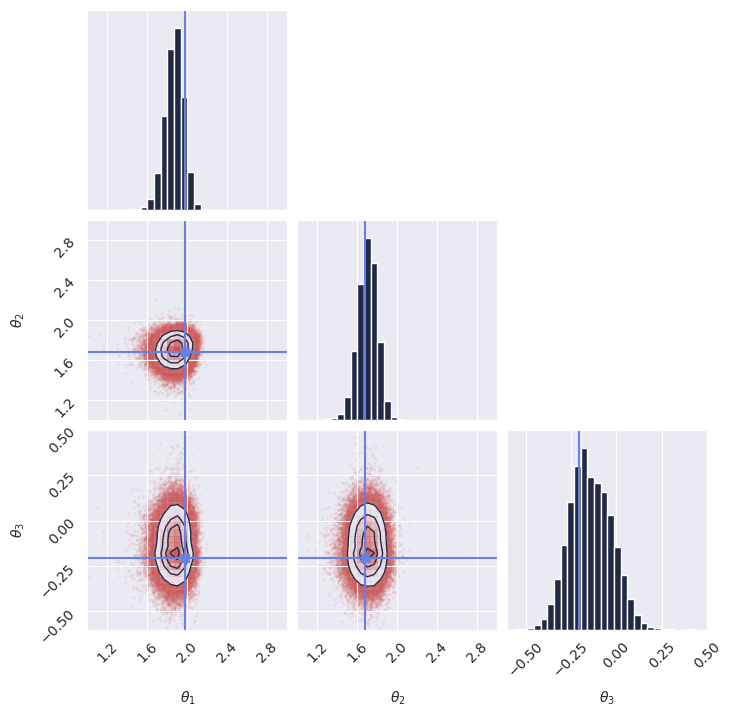
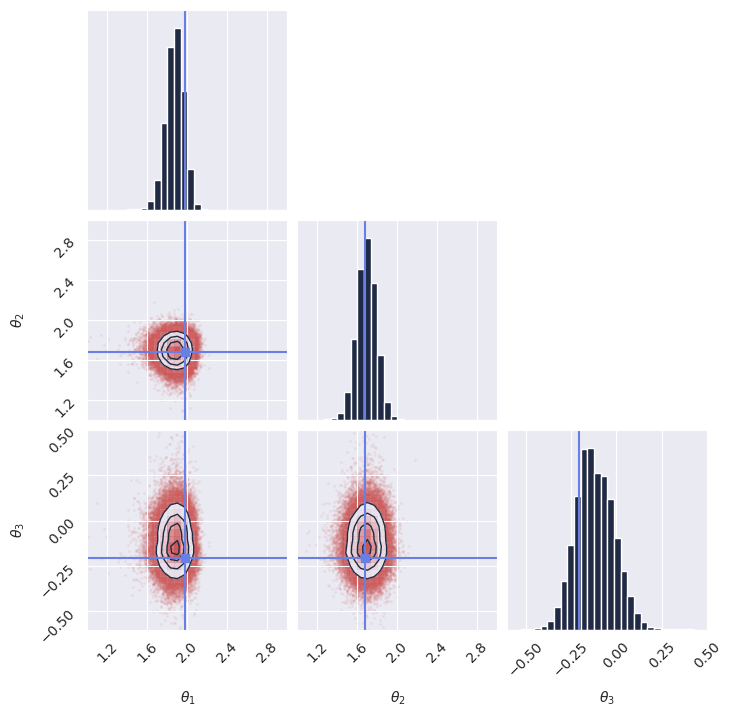
included  code and plots in the recipes documentation

diff --git a/src/gensbi/recipes/flux1joint.py b/src/gensbi/recipes/flux1joint.py
@@ -1,56 +1,5 @@
 """
-Pipeline for training and using a Flux1 model for simulation-based inference.
-
-Examples:
-    .. code-block:: python
-
-        import grain
-        import numpy as np
-        import jax
-        from jax import numpy as jnp
-        from gensbi.recipes import SimformerPipeline
-
-        # Define your training and validation datasets.
-        train_data = jax.random.rand((1024, 4)) # your training dataset
-        val_data = jax.random.rand((128, 4)) # your validation dataset
-
-        batch_size = 32
-
-        train_dataset_grain = (
-            grain.MapDataset.source(np.array(train_data)[...,None])
-            .shuffle(42)
-            .repeat()
-            .to_iter_dataset()
-            .batch(batch_size)
-            # .mp_prefetch() # Uncomment if you want to use multiprocessing prefetching
-        )
-
-        val_dataset_grain = (
-            grain.MapDataset.source(np.array(val_data)[...,None])
-            .shuffle(42)
-            .repeat()
-            .to_iter_dataset()
-            .batch(batch_size)
-            # .mp_prefetch() # Uncomment if you want to use multiprocessing prefetching
-        )
-
-        # Define the model
-        dim_obs = 2  # Dimension of the parameter space
-        dim_cond = 2      # Dimension of the observation space
-        pipeline = SimformerPipeline(train_dataset, val_dataset, dim_obs, dim_cond)
-
-        # Train the model
-        rngs = jax.random.PRNGKey(0)
-        pipeline.train(rngs)
-
-        # Sample from the posterior
-        x_o = jnp.array([0.5, -0.2])  # Example
-        samples = pipeline.sample(rngs, x_o, nsamples=10000, step_size=0.01)
-
-    .. note::
-
-        If you plan on using multiprocessing prefetching, ensure that your script is wrapped in a `if __name__ == "__main__":` guard. See https://docs.python.org/3/library/multiprocessing.html
-
+Pipeline for training and using a Flux1Joint model for simulation-based inference.
 """
 
 import jax
@@ -201,6 +150,22 @@ class Flux1JointFlowPipeline(JointFlowPipeline):
             Configuration for training. If None, default configuration is used.
         condition_mask_kind : str, optional
             Kind of condition mask to use. One of ["structured", "posterior"].
+
+        Examples
+        --------
+        Minimal example on how to instantiate and use the Flux1JointFlowPipeline:
+
+        .. literalinclude:: /examples/flux1joint_flow_pipeline.py
+            :language: python
+            :linenos:
+
+        .. image:: /examples/flux1joint_flow_pipeline_marginals.png
+            :width: 600
+
+        .. note::
+            If you plan on using multiprocessing prefetching, ensure that your script is wrapped
+            in a ``if __name__ == "__main__":`` guard.
+            See https://docs.python.org/3/library/multiprocessing.html
 
         """
         self.dim_joint = dim_obs + dim_cond
@@ -359,6 +324,22 @@ class Flux1JointDiffusionPipeline(JointDiffusionPipeline):
             Configuration for training. If None, default configuration is used.
         condition_mask_kind : str, optional
             Kind of condition mask to use. One of ["structured", "posterior"]. Default is "structured".
+
+        Examples
+        --------
+        Minimal example on how to instantiate and use the Flux1JointDiffusionPipeline:
+
+        .. literalinclude:: /examples/flux1joint_diffusion_pipeline.py
+            :language: python
+            :linenos:
+
+        .. image:: /examples/flux1joint_diffusion_pipeline_marginals.png
+            :width: 600
+
+        .. note::
+            If you plan on using multiprocessing prefetching, ensure that your script is wrapped
+            in a ``if __name__ == "__main__":`` guard.
+            See https://docs.python.org/3/library/multiprocessing.html
 
         """
         self.dim_joint = dim_obs + dim_cond

diff --git a/src/gensbi/recipes/simformer.py b/src/gensbi/recipes/simformer.py
@@ -1,56 +1,5 @@
 """
-Pipeline for training and using a Flux1 model for simulation-based inference.
-
-Examples:
-    .. code-block:: python
-
-        import grain
-        import numpy as np
-        import jax
-        from jax import numpy as jnp
-        from gensbi.recipes import SimformerPipeline
-
-        # Define your training and validation datasets.
-        train_data = jax.random.rand((1024, 4)) # your training dataset
-        val_data = jax.random.rand((128, 4)) # your validation dataset
-
-        batch_size = 32
-
-        train_dataset_grain = (
-            grain.MapDataset.source(np.array(train_data)[...,None])
-            .shuffle(42)
-            .repeat()
-            .to_iter_dataset()
-            .batch(batch_size)
-            # .mp_prefetch() # Uncomment if you want to use multiprocessing prefetching
-        )
-
-        val_dataset_grain = (
-            grain.MapDataset.source(np.array(val_data)[...,None])
-            .shuffle(42)
-            .repeat()
-            .to_iter_dataset()
-            .batch(batch_size)
-            # .mp_prefetch() # Uncomment if you want to use multiprocessing prefetching
-        )
-
-        # Define the model
-        dim_obs = 2  # Dimension of the parameter space
-        dim_cond = 2      # Dimension of the observation space
-        pipeline = SimformerPipeline(train_dataset_grain, val_dataset_grain, dim_obs, dim_cond)
-
-        # Train the model
-        rngs = jax.random.PRNGKey(0)
-        pipeline.train(rngs)
-
-        # Sample from the posterior
-        x_o = jnp.array([0.5, -0.2])  # Example
-        samples = pipeline.sample(rngs, x_o, nsamples=10000, step_size=0.01)
-
-    .. note::
-
-        If you plan on using multiprocessing prefetching, ensure that your script is wrapped in a `if __name__ == "__main__":` guard. See https://docs.python.org/3/library/multiprocessing.html
-
+Pipeline for training and using a Simformer model for simulation-based inference.
 """
 
 import jax
@@ -197,6 +146,22 @@ class SimformerFlowPipeline(JointFlowPipeline):
             Edge mask for the Simformer model. If None, no mask is applied.
         condition_mask_kind : str, optional
             Kind of condition mask to use. One of ["structured", "posterior"].
+
+        Examples
+        --------
+        Minimal example on how to instantiate and use the SimformerFlowPipeline:
+
+        .. literalinclude:: /examples/simformer_flow_pipeline.py
+            :language: python
+            :linenos:
+
+        .. image:: /examples/simformer_flow_pipeline_marginals.png
+            :width: 600
+
+        .. note::
+            If you plan on using multiprocessing prefetching, ensure that your script is wrapped
+            in a ``if __name__ == "__main__":`` guard.
+            See https://docs.python.org/3/library/multiprocessing.html
 
         """
         self.dim_joint = dim_obs + dim_cond
@@ -385,6 +350,22 @@ class SimformerDiffusionPipeline(JointDiffusionPipeline):
             Edge mask for the Simformer model. If None, no mask is applied.
         condition_mask_kind : str, optional
             Kind of condition mask to use. One of ["structured", "posterior"].
+
+        Examples
+        --------
+        Minimal example on how to instantiate and use the SimformerDiffusionPipeline:
+
+        .. literalinclude:: /examples/simformer_diffusion_pipeline.py
+            :language: python
+            :linenos:
+
+        .. image:: /examples/simformer_diffusion_pipeline_marginals.png
+            :width: 600
+
+        .. note::
+            If you plan on using multiprocessing prefetching, ensure that your script is wrapped
+            in a ``if __name__ == "__main__":`` guard.
+            See https://docs.python.org/3/library/multiprocessing.html
 
         """
 

diff --git a/src/gensbi/recipes/flux1.py b/src/gensbi/recipes/flux1.py
@@ -1,56 +1,5 @@
 """
 Pipeline for training and using a Flux1 model for simulation-based inference.
-
-Examples:
-    .. code-block:: python
-
-        import grain
-        import numpy as np
-        import jax
-        from jax import numpy as jnp
-        from gensbi.recipes import Flux1Pipeline
-
-        # Define your training and validation datasets.
-        train_data = jax.random.rand((1024, 4)) # your training dataset
-        val_data = jax.random.rand((128, 4)) # your validation dataset
-
-        batch_size = 32
-
-        train_dataset_grain = (
-            grain.MapDataset.source(np.array(train_data)[...,None])
-            .shuffle(42)
-            .repeat()
-            .to_iter_dataset()
-            .batch(batch_size)
-            # .mp_prefetch() # Uncomment if you want to use multiprocessing prefetching
-        )
-
-        val_dataset_grain = (
-            grain.MapDataset.source(np.array(val_data)[...,None])
-            .shuffle(42)
-            .repeat()
-            .to_iter_dataset()
-            .batch(batch_size)
-            # .mp_prefetch() # Uncomment if you want to use multiprocessing prefetching
-        )
-
-        # Define the model
-        dim_obs = 2  # Dimension of the parameter space
-        dim_cond = 2      # Dimension of the observation space
-        pipeline = Flux1Pipeline(train_dataset_grain, val_dataset_grain, dim_obs, dim_cond)
-
-        # Train the model
-        rngs = jax.random.PRNGKey(0)
-        pipeline.train(rngs)
-
-        # Sample from the posterior
-        x_o = jnp.array([0.5, -0.2])  # Example
-        samples = pipeline.sample(rngs, x_o, nsamples=10000, step_size=0.01)
-
-    .. note::
-
-        If you plan on using multiprocessing prefetching, ensure that your script is wrapped in a `if __name__ == "__main__":` guard. See https://docs.python.org/3/library/multiprocessing.html
-
 """
 
 import jax
@@ -201,6 +150,22 @@ class Flux1FlowPipeline(ConditionalFlowPipeline):
             Parameters for the Flux1 model. If None, default parameters are used.
         training_config : dict, optional
             Configuration for training. If None, default configuration is used.
+
+        Examples
+        --------
+        Minimal example on how to instantiate and use the Flux1FlowPipeline:
+
+        .. literalinclude:: /examples/flux1_flow_pipeline.py
+            :language: python
+            :linenos:
+
+        .. image:: /examples/flux1_flow_pipeline_marginals.png
+            :width: 600
+
+        .. note::
+            If you plan on using multiprocessing prefetching, ensure that your script is wrapped
+            in a ``if __name__ == "__main__":`` guard.
+            See https://docs.python.org/3/library/multiprocessing.html
 
         """
 
@@ -363,6 +328,22 @@ class Flux1DiffusionPipeline(ConditionalDiffusionPipeline):
             Parameters for the Flux1 model. If None, default parameters are used.
         training_config : dict, optional
             Configuration for training. If None, default configuration is used.
+
+        Examples
+        --------
+        Minimal example on how to instantiate and use the Flux1DiffusionPipeline:
+
+        .. literalinclude:: /examples/flux1_diffusion_pipeline.py
+            :language: python
+            :linenos:
+
+        .. image:: /examples/flux1_diffusion_pipeline_marginals.png
+            :width: 600
+
+        .. note::
+            If you plan on using multiprocessing prefetching, ensure that your script is wrapped
+            in a ``if __name__ == "__main__":`` guard.
+            See https://docs.python.org/3/library/multiprocessing.html
 
         """
 

diff --git a/src/gensbi/recipes/joint_pipeline.py b/src/gensbi/recipes/joint_pipeline.py
@@ -1,5 +1,5 @@
 """
-Pipeline for training and using a Flux1 model for simulation-based inference.
+Pipeline for training and using a Joint model for simulation-based inference.
 """
 
 import jax
